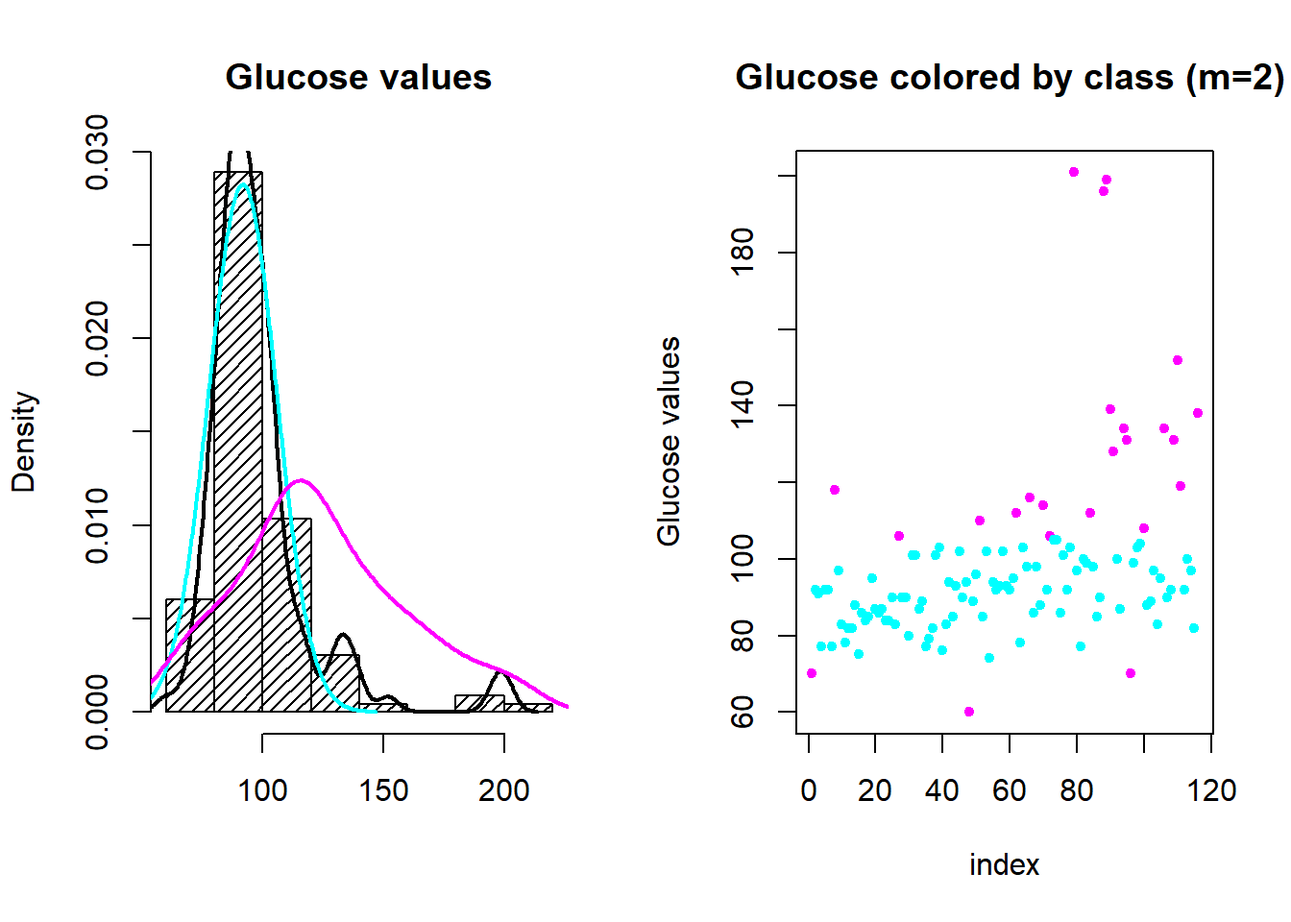
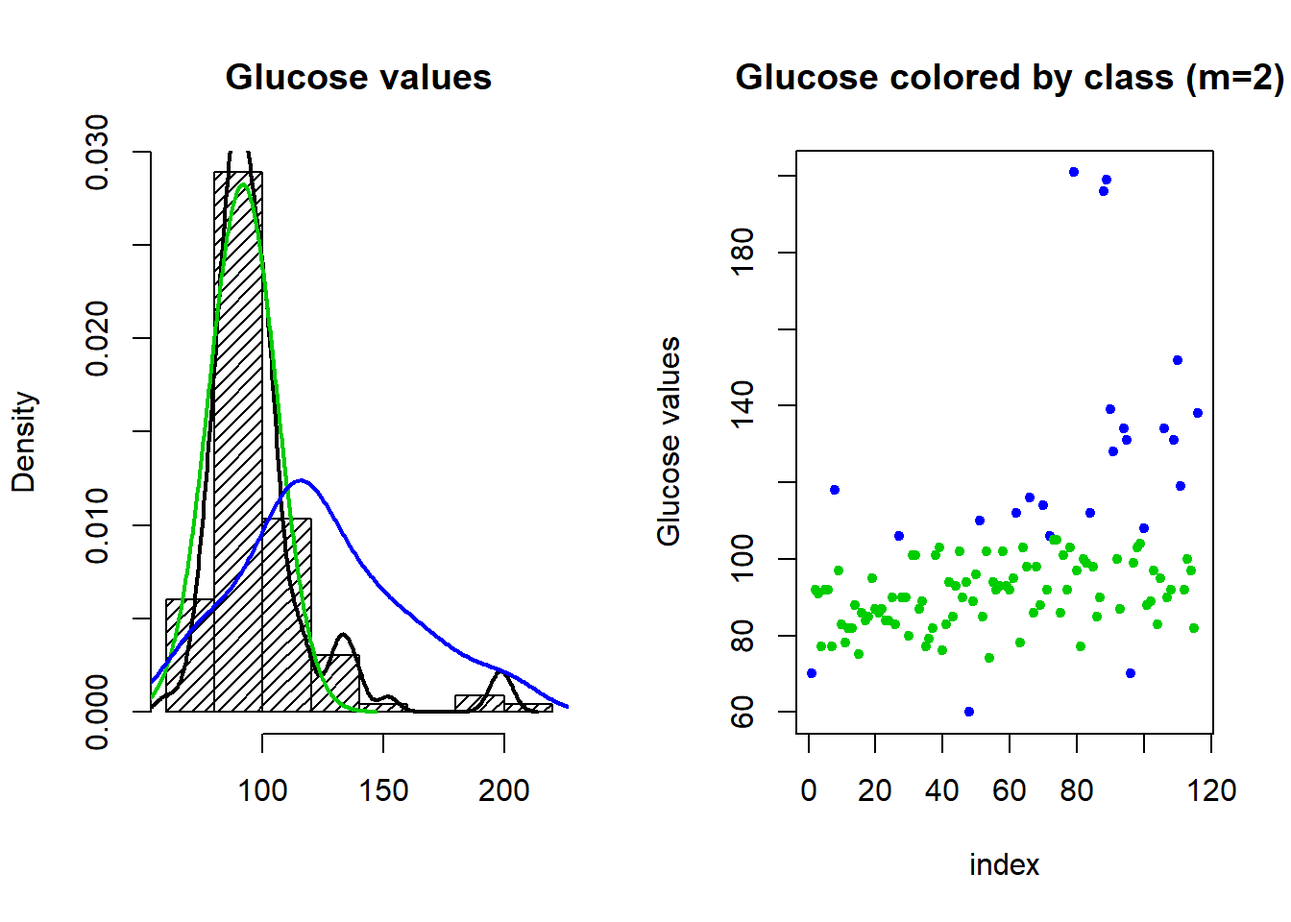
changed colors in 2031-assign1.Rmd

diff --git a/_book/assignment-glucose.html b/_book/assignment-glucose.html
@@ -132,7 +132,6 @@ code span.wa { color: #60a0b0; font-weight: bold; font-style: italic; } /* Warni
 
 <li class="divider"></li>
 <li><a href="index.html#section"></a></li>
-<li class="chapter" data-level="" data-path="preface.html"><a href="preface.html"><i class="fa fa-check"></i>Preface</a></li>
 <li class="chapter" data-level="1" data-path="intro.html"><a href="intro.html"><i class="fa fa-check"></i><b>1</b> Introduction</a></li>
 <li class="chapter" data-level="2" data-path="compstat.html"><a href="compstat.html"><i class="fa fa-check"></i><b>2</b> COMPSTAT</a><ul>
 <li class="chapter" data-level="2.1" data-path="lesson-1.html"><a href="lesson-1.html"><i class="fa fa-check"></i><b>2.1</b> Lesson 1</a></li>
@@ -175,8 +174,8 @@ code span.wa { color: #60a0b0; font-weight: bold; font-style: italic; } /* Warni
 <li class="chapter" data-level="4.4" data-path="assignment-trees.html"><a href="assignment-trees.html"><i class="fa fa-check"></i><b>4.4</b> Assignment Trees</a><ul>
 <li class="chapter" data-level="4.4.1" data-path="assignment-trees.html"><a href="assignment-trees.html#load-data"><i class="fa fa-check"></i><b>4.4.1</b> load data</a></li>
 <li class="chapter" data-level="4.4.2" data-path="assignment-trees.html"><a href="assignment-trees.html#classification-tree"><i class="fa fa-check"></i><b>4.4.2</b> Classification tree</a></li>
-<li class="chapter" data-level="4.4.3" data-path="assignment-trees.html"><a href="assignment-trees.html#random-forest-with-repeated-310-fold-cv"><i class="fa fa-check"></i><b>4.4.3</b> Random forest with repeated 3*10-fold CV</a></li>
-<li class="chapter" data-level="4.4.4" data-path="assignment-trees.html"><a href="assignment-trees.html#improve-random-forest-1"><i class="fa fa-check"></i><b>4.4.4</b> Improve Random Forest</a></li>
+<li><a href="assignment-trees.html#random-forest-with-repeated-310-fold-cv-improve-random-forest"><span class="toc-section-number">4.4.3</span> Random forest with repeated 3*10-fold CV
+### Improve Random Forest</a></li>
 </ul></li>
 <li class="chapter" data-level="4.5" data-path="assignment-trees-up-sampling.html"><a href="assignment-trees-up-sampling.html"><i class="fa fa-check"></i><b>4.5</b> Assignment Trees - Up Sampling</a><ul>
 <li class="chapter" data-level="4.5.1" data-path="assignment-trees-up-sampling.html"><a href="assignment-trees-up-sampling.html#load-data-1"><i class="fa fa-check"></i><b>4.5.1</b> load data</a></li>
@@ -220,84 +219,84 @@ code span.wa { color: #60a0b0; font-weight: bold; font-style: italic; } /* Warni
 searching for 2 or more latent classes.</p>
 <div id="defining-a-function-for-expectation-maximization-algorithm" class="section level3">
 <h3><span class="header-section-number">2.6.1</span> Defining a function for Expectation-Maximization algorithm</h3>
-<div class="sourceCode" id="cb98"><pre class="sourceCode r"><code class="sourceCode r"><a class="sourceLine" id="cb98-1" title="1"><span class="co"># function for E-M algorithm</span></a>
-<a class="sourceLine" id="cb98-2" title="2">emf&lt;-<span class="cf">function</span>(<span class="dt">xx =</span> vv, <span class="co"># a vector with the data</span></a>
-<a class="sourceLine" id="cb98-3" title="3">              <span class="dt">m =</span> <span class="dv">2</span>, <span class="co"># number of clustres</span></a>
-<a class="sourceLine" id="cb98-4" title="4">              <span class="dt">method =</span> <span class="st">&quot;crisp&quot;</span>, <span class="co"># method used for parameters estimation in each class; options: &quot;crisp&quot; or &quot;soft&quot;</span></a>
-<a class="sourceLine" id="cb98-5" title="5">              <span class="dt">itera =</span> <span class="dv">10</span>, <span class="co"># number of iterations</span></a>
-<a class="sourceLine" id="cb98-6" title="6">              <span class="dt">eps =</span> <span class="fl">0.01</span>, <span class="co"># the accepted error to converge (e)</span></a>
-<a class="sourceLine" id="cb98-7" title="7">              <span class="dt">params =</span> <span class="st">&quot;random&quot;</span>, <span class="co"># initial parameters, if &quot;random&quot; &#39;m&#39; values from &#39;xx&#39; are randomly select, or we can input a vector with &#39;m&#39; values</span></a>
-<a class="sourceLine" id="cb98-8" title="8">              <span class="dt">main=</span><span class="st">&quot;Glucose level&quot;</span>, <span class="co"># histogram title</span></a>
-<a class="sourceLine" id="cb98-9" title="9">              <span class="dt">seed =</span> <span class="dv">0</span> <span class="co"># value for set.seed()</span></a>
-<a class="sourceLine" id="cb98-10" title="10">              ){</a>
-<a class="sourceLine" id="cb98-11" title="11">  medias=<span class="ot">NA</span></a>
-<a class="sourceLine" id="cb98-12" title="12">  desvpadrao=<span class="ot">NA</span></a>
-<a class="sourceLine" id="cb98-13" title="13">  <span class="cf">if</span> (params <span class="op">==</span><span class="st"> &quot;random&quot;</span>) {</a>
-<a class="sourceLine" id="cb98-14" title="14">  <span class="kw">set.seed</span>(seed)</a>
-<a class="sourceLine" id="cb98-15" title="15">  param.mean&lt;-<span class="kw">sample</span>(xx,m)</a>
-<a class="sourceLine" id="cb98-16" title="16">  param.sd&lt;-<span class="kw">rep</span>(<span class="kw">sd</span>(xx)<span class="op">/</span>m,m)</a>
-<a class="sourceLine" id="cb98-17" title="17">  } <span class="cf">else</span> {</a>
-<a class="sourceLine" id="cb98-18" title="18">    param.mean&lt;-params</a>
-<a class="sourceLine" id="cb98-19" title="19">    param.sd&lt;-<span class="kw">rep</span>(<span class="kw">sd</span>(xx)<span class="op">/</span>m,m)</a>
-<a class="sourceLine" id="cb98-20" title="20">  }</a>
-<a class="sourceLine" id="cb98-21" title="21">  </a>
-<a class="sourceLine" id="cb98-22" title="22">  <span class="cf">for</span> (k <span class="cf">in</span> <span class="dv">1</span><span class="op">:</span>itera){</a>
-<a class="sourceLine" id="cb98-23" title="23">    densities&lt;-<span class="kw">sapply</span>(<span class="dv">1</span><span class="op">:</span>m, </a>
-<a class="sourceLine" id="cb98-24" title="24">                      <span class="cf">function</span>(i){<span class="kw">dnorm</span>(xx,</a>
-<a class="sourceLine" id="cb98-25" title="25">                                        <span class="dt">mean=</span>param.mean[i],</a>
-<a class="sourceLine" id="cb98-26" title="26">                                        <span class="dt">sd=</span>param.sd[i])})</a>
-<a class="sourceLine" id="cb98-27" title="27">    relevance&lt;-<span class="kw">t</span>(<span class="kw">apply</span>(densities,<span class="dv">1</span>,<span class="cf">function</span>(l){l<span class="op">/</span><span class="kw">sum</span>(l)}))</a>
-<a class="sourceLine" id="cb98-28" title="28">    </a>
-<a class="sourceLine" id="cb98-29" title="29">    attrib&lt;-<span class="kw">t</span>(<span class="kw">apply</span>(relevance,<span class="dv">1</span>,</a>
-<a class="sourceLine" id="cb98-30" title="30">                    <span class="cf">function</span>(l){<span class="kw">replace</span>(<span class="kw">rep</span>(<span class="dv">0</span>,m),<span class="kw">which.max</span>(l)[<span class="dv">1</span>],<span class="dv">1</span>)}))</a>
-<a class="sourceLine" id="cb98-31" title="31">    </a>
-<a class="sourceLine" id="cb98-32" title="32">    <span class="co"># Re-estimates the parameters of the probability distribution of each class</span></a>
-<a class="sourceLine" id="cb98-33" title="33">    <span class="cf">if</span> (method <span class="op">==</span><span class="st"> &quot;crisp&quot;</span>) {</a>
-<a class="sourceLine" id="cb98-34" title="34">      <span class="co">## M-step (alternative 1: crisp)</span></a>
-<a class="sourceLine" id="cb98-35" title="35">      param.mean.new&lt;-<span class="kw">sapply</span>(<span class="dv">1</span><span class="op">:</span>m,</a>
-<a class="sourceLine" id="cb98-36" title="36">                             <span class="cf">function</span>(j){<span class="kw">mean</span>(xx[attrib[,j]<span class="op">==</span><span class="dv">1</span>])})</a>
-<a class="sourceLine" id="cb98-37" title="37">      param.sd.new&lt;-<span class="kw">sapply</span>(<span class="dv">1</span><span class="op">:</span>m,</a>
-<a class="sourceLine" id="cb98-38" title="38">                           <span class="cf">function</span>(j){<span class="kw">sqrt</span>(<span class="kw">sum</span>(relevance[,j]<span class="op">*</span>(xx<span class="op">-</span>param.mean[j])<span class="op">^</span><span class="dv">2</span>)<span class="op">/</span><span class="kw">sum</span>(relevance[,j]))})</a>
-<a class="sourceLine" id="cb98-39" title="39">    } <span class="cf">else</span> {</a>
-<a class="sourceLine" id="cb98-40" title="40">      <span class="co">## M-step (alternative 2: soft)</span></a>
-<a class="sourceLine" id="cb98-41" title="41">      param.mean.new&lt;-<span class="kw">sapply</span>(<span class="dv">1</span><span class="op">:</span>m,</a>
-<a class="sourceLine" id="cb98-42" title="42">                             <span class="cf">function</span>(j){<span class="kw">sum</span>(xx<span class="op">*</span>relevance[,j])<span class="op">/</span><span class="kw">sum</span>(relevance[,j])})</a>
-<a class="sourceLine" id="cb98-43" title="43">      param.sd.new&lt;-<span class="kw">sapply</span>(<span class="dv">1</span><span class="op">:</span>m,</a>
-<a class="sourceLine" id="cb98-44" title="44">                           <span class="cf">function</span>(j){<span class="kw">sqrt</span>(<span class="kw">sum</span>(relevance[,j]<span class="op">*</span>(xx<span class="op">-</span>param.mean[j])<span class="op">^</span><span class="dv">2</span>)<span class="op">/</span><span class="kw">sum</span>(relevance[,j]))})</a>
-<a class="sourceLine" id="cb98-45" title="45">      </a>
-<a class="sourceLine" id="cb98-46" title="46">    }</a>
-<a class="sourceLine" id="cb98-47" title="47">    </a>
-<a class="sourceLine" id="cb98-48" title="48">    <span class="co"># convergence the maximum number of iterations (k).</span></a>
-<a class="sourceLine" id="cb98-49" title="49">    <span class="kw">cat</span>(<span class="st">&quot;iteration&quot;</span>, k, <span class="st">&quot;evolution:&quot;</span>, </a>
-<a class="sourceLine" id="cb98-50" title="50">        dif&lt;-<span class="kw">sum</span>(<span class="kw">abs</span>(param.mean.new <span class="op">-</span><span class="st"> </span>param.mean)), <span class="st">&quot;</span><span class="ch">\n</span><span class="st">&quot;</span>)</a>
-<a class="sourceLine" id="cb98-51" title="51">    <span class="cf">if</span>(dif <span class="op">&lt;</span><span class="st"> </span>eps) <span class="cf">break</span> <span class="co"># the accepted error to converge (e)</span></a>
-<a class="sourceLine" id="cb98-52" title="52">    param.mean&lt;-param.mean.new</a>
-<a class="sourceLine" id="cb98-53" title="53">    param.sd&lt;-param.sd.new</a>
-<a class="sourceLine" id="cb98-54" title="54">  }</a>
-<a class="sourceLine" id="cb98-55" title="55">  </a>
-<a class="sourceLine" id="cb98-56" title="56">  <span class="co">## ploting the histogram and density curve for the vector of data</span></a>
-<a class="sourceLine" id="cb98-57" title="57">  <span class="kw">hist</span>(xx, <span class="dt">density =</span> <span class="dv">20</span>,</a>
-<a class="sourceLine" id="cb98-58" title="58">       <span class="dt">main=</span>main,</a>
-<a class="sourceLine" id="cb98-59" title="59">       <span class="dt">xlab=</span><span class="st">&quot;&quot;</span>, <span class="dt">freq=</span>F)</a>
-<a class="sourceLine" id="cb98-60" title="60">  <span class="kw">lines</span>(<span class="kw">density</span>(xx),</a>
-<a class="sourceLine" id="cb98-61" title="61">        <span class="dt">lwd=</span><span class="dv">2</span>,<span class="dt">col=</span><span class="st">&quot;black&quot;</span>)</a>
-<a class="sourceLine" id="cb98-62" title="62">  </a>
-<a class="sourceLine" id="cb98-63" title="63">  <span class="co">## save means, std deviations and classes&#39; attributes on a list</span></a>
-<a class="sourceLine" id="cb98-64" title="64">  result&lt;-<span class="kw">list</span>(<span class="dt">medias =</span> param.mean,</a>
-<a class="sourceLine" id="cb98-65" title="65">               <span class="dt">desvpadrao =</span> param.sd,</a>
-<a class="sourceLine" id="cb98-66" title="66">               <span class="dt">classe =</span> <span class="kw">as.data.frame</span>(attrib))</a>
-<a class="sourceLine" id="cb98-67" title="67"></a>
-<a class="sourceLine" id="cb98-68" title="68">}</a></code></pre></div>
+<div class="sourceCode" id="cb3"><pre class="sourceCode r"><code class="sourceCode r"><a class="sourceLine" id="cb3-1" title="1"><span class="co"># function for E-M algorithm</span></a>
+<a class="sourceLine" id="cb3-2" title="2">emf&lt;-<span class="cf">function</span>(<span class="dt">xx =</span> vv, <span class="co"># a vector with the data</span></a>
+<a class="sourceLine" id="cb3-3" title="3">              <span class="dt">m =</span> <span class="dv">2</span>, <span class="co"># number of clustres</span></a>
+<a class="sourceLine" id="cb3-4" title="4">              <span class="dt">method =</span> <span class="st">&quot;crisp&quot;</span>, <span class="co"># method used for parameters estimation in each class; options: &quot;crisp&quot; or &quot;soft&quot;</span></a>
+<a class="sourceLine" id="cb3-5" title="5">              <span class="dt">itera =</span> <span class="dv">10</span>, <span class="co"># number of iterations</span></a>
+<a class="sourceLine" id="cb3-6" title="6">              <span class="dt">eps =</span> <span class="fl">0.01</span>, <span class="co"># the accepted error to converge (e)</span></a>
+<a class="sourceLine" id="cb3-7" title="7">              <span class="dt">params =</span> <span class="st">&quot;random&quot;</span>, <span class="co"># initial parameters, if &quot;random&quot; &#39;m&#39; values from &#39;xx&#39; are randomly select, or we can input a vector with &#39;m&#39; values</span></a>
+<a class="sourceLine" id="cb3-8" title="8">              <span class="dt">main=</span><span class="st">&quot;Glucose level&quot;</span>, <span class="co"># histogram title</span></a>
+<a class="sourceLine" id="cb3-9" title="9">              <span class="dt">seed =</span> <span class="dv">0</span> <span class="co"># value for set.seed()</span></a>
+<a class="sourceLine" id="cb3-10" title="10">              ){</a>
+<a class="sourceLine" id="cb3-11" title="11">  medias=<span class="ot">NA</span></a>
+<a class="sourceLine" id="cb3-12" title="12">  desvpadrao=<span class="ot">NA</span></a>
+<a class="sourceLine" id="cb3-13" title="13">  <span class="cf">if</span> (params <span class="op">==</span><span class="st"> &quot;random&quot;</span>) {</a>
+<a class="sourceLine" id="cb3-14" title="14">  <span class="kw">set.seed</span>(seed)</a>
+<a class="sourceLine" id="cb3-15" title="15">  param.mean&lt;-<span class="kw">sample</span>(xx,m)</a>
+<a class="sourceLine" id="cb3-16" title="16">  param.sd&lt;-<span class="kw">rep</span>(<span class="kw">sd</span>(xx)<span class="op">/</span>m,m)</a>
+<a class="sourceLine" id="cb3-17" title="17">  } <span class="cf">else</span> {</a>
+<a class="sourceLine" id="cb3-18" title="18">    param.mean&lt;-params</a>
+<a class="sourceLine" id="cb3-19" title="19">    param.sd&lt;-<span class="kw">rep</span>(<span class="kw">sd</span>(xx)<span class="op">/</span>m,m)</a>
+<a class="sourceLine" id="cb3-20" title="20">  }</a>
+<a class="sourceLine" id="cb3-21" title="21">  </a>
+<a class="sourceLine" id="cb3-22" title="22">  <span class="cf">for</span> (k <span class="cf">in</span> <span class="dv">1</span><span class="op">:</span>itera){</a>
+<a class="sourceLine" id="cb3-23" title="23">    densities&lt;-<span class="kw">sapply</span>(<span class="dv">1</span><span class="op">:</span>m, </a>
+<a class="sourceLine" id="cb3-24" title="24">                      <span class="cf">function</span>(i){<span class="kw">dnorm</span>(xx,</a>
+<a class="sourceLine" id="cb3-25" title="25">                                        <span class="dt">mean=</span>param.mean[i],</a>
+<a class="sourceLine" id="cb3-26" title="26">                                        <span class="dt">sd=</span>param.sd[i])})</a>
+<a class="sourceLine" id="cb3-27" title="27">    relevance&lt;-<span class="kw">t</span>(<span class="kw">apply</span>(densities,<span class="dv">1</span>,<span class="cf">function</span>(l){l<span class="op">/</span><span class="kw">sum</span>(l)}))</a>
+<a class="sourceLine" id="cb3-28" title="28">    </a>
+<a class="sourceLine" id="cb3-29" title="29">    attrib&lt;-<span class="kw">t</span>(<span class="kw">apply</span>(relevance,<span class="dv">1</span>,</a>
+<a class="sourceLine" id="cb3-30" title="30">                    <span class="cf">function</span>(l){<span class="kw">replace</span>(<span class="kw">rep</span>(<span class="dv">0</span>,m),<span class="kw">which.max</span>(l)[<span class="dv">1</span>],<span class="dv">1</span>)}))</a>
+<a class="sourceLine" id="cb3-31" title="31">    </a>
+<a class="sourceLine" id="cb3-32" title="32">    <span class="co"># Re-estimates the parameters of the probability distribution of each class</span></a>
+<a class="sourceLine" id="cb3-33" title="33">    <span class="cf">if</span> (method <span class="op">==</span><span class="st"> &quot;crisp&quot;</span>) {</a>
+<a class="sourceLine" id="cb3-34" title="34">      <span class="co">## M-step (alternative 1: crisp)</span></a>
+<a class="sourceLine" id="cb3-35" title="35">      param.mean.new&lt;-<span class="kw">sapply</span>(<span class="dv">1</span><span class="op">:</span>m,</a>
+<a class="sourceLine" id="cb3-36" title="36">                             <span class="cf">function</span>(j){<span class="kw">mean</span>(xx[attrib[,j]<span class="op">==</span><span class="dv">1</span>])})</a>
+<a class="sourceLine" id="cb3-37" title="37">      param.sd.new&lt;-<span class="kw">sapply</span>(<span class="dv">1</span><span class="op">:</span>m,</a>
+<a class="sourceLine" id="cb3-38" title="38">                           <span class="cf">function</span>(j){<span class="kw">sqrt</span>(<span class="kw">sum</span>(relevance[,j]<span class="op">*</span>(xx<span class="op">-</span>param.mean[j])<span class="op">^</span><span class="dv">2</span>)<span class="op">/</span><span class="kw">sum</span>(relevance[,j]))})</a>
+<a class="sourceLine" id="cb3-39" title="39">    } <span class="cf">else</span> {</a>
+<a class="sourceLine" id="cb3-40" title="40">      <span class="co">## M-step (alternative 2: soft)</span></a>
+<a class="sourceLine" id="cb3-41" title="41">      param.mean.new&lt;-<span class="kw">sapply</span>(<span class="dv">1</span><span class="op">:</span>m,</a>
+<a class="sourceLine" id="cb3-42" title="42">                             <span class="cf">function</span>(j){<span class="kw">sum</span>(xx<span class="op">*</span>relevance[,j])<span class="op">/</span><span class="kw">sum</span>(relevance[,j])})</a>
+<a class="sourceLine" id="cb3-43" title="43">      param.sd.new&lt;-<span class="kw">sapply</span>(<span class="dv">1</span><span class="op">:</span>m,</a>
+<a class="sourceLine" id="cb3-44" title="44">                           <span class="cf">function</span>(j){<span class="kw">sqrt</span>(<span class="kw">sum</span>(relevance[,j]<span class="op">*</span>(xx<span class="op">-</span>param.mean[j])<span class="op">^</span><span class="dv">2</span>)<span class="op">/</span><span class="kw">sum</span>(relevance[,j]))})</a>
+<a class="sourceLine" id="cb3-45" title="45">      </a>
+<a class="sourceLine" id="cb3-46" title="46">    }</a>
+<a class="sourceLine" id="cb3-47" title="47">    </a>
+<a class="sourceLine" id="cb3-48" title="48">    <span class="co"># convergence the maximum number of iterations (k).</span></a>
+<a class="sourceLine" id="cb3-49" title="49">    <span class="kw">cat</span>(<span class="st">&quot;iteration&quot;</span>, k, <span class="st">&quot;evolution:&quot;</span>, </a>
+<a class="sourceLine" id="cb3-50" title="50">        dif&lt;-<span class="kw">sum</span>(<span class="kw">abs</span>(param.mean.new <span class="op">-</span><span class="st"> </span>param.mean)), <span class="st">&quot;</span><span class="ch">\n</span><span class="st">&quot;</span>)</a>
+<a class="sourceLine" id="cb3-51" title="51">    <span class="cf">if</span>(dif <span class="op">&lt;</span><span class="st"> </span>eps) <span class="cf">break</span> <span class="co"># the accepted error to converge (e)</span></a>
+<a class="sourceLine" id="cb3-52" title="52">    param.mean&lt;-param.mean.new</a>
+<a class="sourceLine" id="cb3-53" title="53">    param.sd&lt;-param.sd.new</a>
+<a class="sourceLine" id="cb3-54" title="54">  }</a>
+<a class="sourceLine" id="cb3-55" title="55">  </a>
+<a class="sourceLine" id="cb3-56" title="56">  <span class="co">## ploting the histogram and density curve for the vector of data</span></a>
+<a class="sourceLine" id="cb3-57" title="57">  <span class="kw">hist</span>(xx, <span class="dt">density =</span> <span class="dv">20</span>,</a>
+<a class="sourceLine" id="cb3-58" title="58">       <span class="dt">main=</span>main,</a>
+<a class="sourceLine" id="cb3-59" title="59">       <span class="dt">xlab=</span><span class="st">&quot;&quot;</span>, <span class="dt">freq=</span>F)</a>
+<a class="sourceLine" id="cb3-60" title="60">  <span class="kw">lines</span>(<span class="kw">density</span>(xx),</a>
+<a class="sourceLine" id="cb3-61" title="61">        <span class="dt">lwd=</span><span class="dv">2</span>,<span class="dt">col=</span><span class="st">&quot;black&quot;</span>)</a>
+<a class="sourceLine" id="cb3-62" title="62">  </a>
+<a class="sourceLine" id="cb3-63" title="63">  <span class="co">## save means, std deviations and classes&#39; attributes on a list</span></a>
+<a class="sourceLine" id="cb3-64" title="64">  result&lt;-<span class="kw">list</span>(<span class="dt">medias =</span> param.mean,</a>
+<a class="sourceLine" id="cb3-65" title="65">               <span class="dt">desvpadrao =</span> param.sd,</a>
+<a class="sourceLine" id="cb3-66" title="66">               <span class="dt">classe =</span> <span class="kw">as.data.frame</span>(attrib))</a>
+<a class="sourceLine" id="cb3-67" title="67"></a>
+<a class="sourceLine" id="cb3-68" title="68">}</a></code></pre></div>
 </div>
 <div id="clusters-density-curves" class="section level3">
 <h3><span class="header-section-number">2.6.2</span> 2 clusters density curves</h3>
-<div class="sourceCode" id="cb99"><pre class="sourceCode r"><code class="sourceCode r"><a class="sourceLine" id="cb99-1" title="1"><span class="co"># reading the data</span></a>
-<a class="sourceLine" id="cb99-2" title="2">breast&lt;-<span class="kw">read.csv</span>(<span class="st">&quot;2.UploadedData/dataR2.csv&quot;</span>)</a>
-<a class="sourceLine" id="cb99-3" title="3"></a>
-<a class="sourceLine" id="cb99-4" title="4"><span class="kw">par</span>(<span class="dt">mfrow=</span><span class="kw">c</span>(<span class="dv">1</span>,<span class="dv">2</span>))</a>
-<a class="sourceLine" id="cb99-5" title="5"></a>
-<a class="sourceLine" id="cb99-6" title="6"><span class="co"># run the EM function for Glucose with 2 clusters and max 20 iterations</span></a>
-<a class="sourceLine" id="cb99-7" title="7">res&lt;-<span class="kw">emf</span>(<span class="dt">xx =</span> breast<span class="op">$</span>Glucose, <span class="dt">itera =</span> <span class="dv">20</span>, <span class="dt">m=</span><span class="dv">2</span>, <span class="dt">method =</span> <span class="st">&quot;crisp&quot;</span>, <span class="dt">main =</span> <span class="st">&quot;Glucose values&quot;</span>, <span class="dt">seed =</span> <span class="dv">0</span>)</a></code></pre></div>
+<div class="sourceCode" id="cb4"><pre class="sourceCode r"><code class="sourceCode r"><a class="sourceLine" id="cb4-1" title="1"><span class="co"># reading the data</span></a>
+<a class="sourceLine" id="cb4-2" title="2">breast&lt;-<span class="kw">read.csv</span>(<span class="st">&quot;2.UploadedData/dataR2.csv&quot;</span>)</a>
+<a class="sourceLine" id="cb4-3" title="3"></a>
+<a class="sourceLine" id="cb4-4" title="4"><span class="kw">par</span>(<span class="dt">mfrow=</span><span class="kw">c</span>(<span class="dv">1</span>,<span class="dv">2</span>))</a>
+<a class="sourceLine" id="cb4-5" title="5"></a>
+<a class="sourceLine" id="cb4-6" title="6"><span class="co"># run the EM function for Glucose with 2 clusters and max 20 iterations</span></a>
+<a class="sourceLine" id="cb4-7" title="7">res&lt;-<span class="kw">emf</span>(<span class="dt">xx =</span> breast<span class="op">$</span>Glucose, <span class="dt">itera =</span> <span class="dv">20</span>, <span class="dt">m=</span><span class="dv">2</span>, <span class="dt">method =</span> <span class="st">&quot;crisp&quot;</span>, <span class="dt">main =</span> <span class="st">&quot;Glucose values&quot;</span>, <span class="dt">seed =</span> <span class="dv">0</span>)</a></code></pre></div>
 <pre><code>## iteration 1 evolution: 17.79331 
 ## iteration 2 evolution: 9.991458 
 ## iteration 3 evolution: 9.361819 
@@ -305,48 +304,48 @@ searching for 2 or more latent classes.</p>
 ## iteration 5 evolution: 2.419946 
 ## iteration 6 evolution: 5.454559 
 ## iteration 7 evolution: 0</code></pre>
-<div class="sourceCode" id="cb101"><pre class="sourceCode r"><code class="sourceCode r"><a class="sourceLine" id="cb101-1" title="1"><span class="co"># add density curves for each class</span></a>
-<a class="sourceLine" id="cb101-2" title="2"><span class="kw">lines</span>(<span class="kw">density</span>(<span class="kw">rnorm</span>(<span class="dv">100</span>, res<span class="op">$</span>medias[<span class="dv">1</span>], res<span class="op">$</span>desvpadrao[<span class="dv">1</span>]), <span class="dt">bw =</span> <span class="dv">12</span>),<span class="dt">lwd=</span><span class="dv">2</span>,<span class="dt">col=</span><span class="dv">5</span>)</a>
-<a class="sourceLine" id="cb101-3" title="3"><span class="kw">lines</span>(<span class="kw">density</span>(<span class="kw">rnorm</span>(<span class="dv">100</span>, res<span class="op">$</span>medias[<span class="dv">2</span>], res<span class="op">$</span>desvpadrao[<span class="dv">2</span>]), <span class="dt">bw =</span> <span class="dv">12</span>),<span class="dt">lwd=</span><span class="dv">2</span>,<span class="dt">col=</span><span class="dv">6</span>)</a>
-<a class="sourceLine" id="cb101-4" title="4"></a>
-<a class="sourceLine" id="cb101-5" title="5"><span class="co">## column with 2 classes</span></a>
-<a class="sourceLine" id="cb101-6" title="6"><span class="kw">attach</span>(res<span class="op">$</span>classe)</a>
-<a class="sourceLine" id="cb101-7" title="7">classe2&lt;-<span class="kw">ifelse</span>(V1 <span class="op">==</span><span class="st"> </span><span class="dv">1</span>, <span class="dv">5</span> , <span class="dv">6</span>) <span class="co"># create &#39;m&#39; classes</span></a>
-<a class="sourceLine" id="cb101-8" title="8"><span class="kw">detach</span>()</a>
-<a class="sourceLine" id="cb101-9" title="9"></a>
-<a class="sourceLine" id="cb101-10" title="10"><span class="co"># Plot the values in which each point has a color corresponding to the class to which it belongs</span></a>
-<a class="sourceLine" id="cb101-11" title="11"><span class="kw">plot</span>(<span class="dv">1</span><span class="op">:</span><span class="kw">length</span>(breast<span class="op">$</span>Glucose), breast<span class="op">$</span>Glucose, <span class="dt">col=</span>classe2, <span class="dt">pch=</span><span class="dv">20</span>,</a>
-<a class="sourceLine" id="cb101-12" title="12">     <span class="dt">xlab=</span><span class="st">&quot;index&quot;</span>, <span class="dt">ylab=</span><span class="st">&quot;Glucose values&quot;</span>,</a>
-<a class="sourceLine" id="cb101-13" title="13">     <span class="dt">main =</span> <span class="st">&quot; Glucose colored by class (m=2)&quot;</span>)</a></code></pre></div>
-<p><img src="heads2sem_files/figure-html/unnamed-chunk-60-1.png" width="672" /></p>
+<div class="sourceCode" id="cb6"><pre class="sourceCode r"><code class="sourceCode r"><a class="sourceLine" id="cb6-1" title="1"><span class="co"># add density curves for each class</span></a>
+<a class="sourceLine" id="cb6-2" title="2"><span class="kw">lines</span>(<span class="kw">density</span>(<span class="kw">rnorm</span>(<span class="dv">100</span>, res<span class="op">$</span>medias[<span class="dv">1</span>], res<span class="op">$</span>desvpadrao[<span class="dv">1</span>]), <span class="dt">bw =</span> <span class="dv">12</span>),<span class="dt">lwd=</span><span class="dv">2</span>,<span class="dt">col=</span><span class="dv">3</span>)</a>
+<a class="sourceLine" id="cb6-3" title="3"><span class="kw">lines</span>(<span class="kw">density</span>(<span class="kw">rnorm</span>(<span class="dv">100</span>, res<span class="op">$</span>medias[<span class="dv">2</span>], res<span class="op">$</span>desvpadrao[<span class="dv">2</span>]), <span class="dt">bw =</span> <span class="dv">12</span>),<span class="dt">lwd=</span><span class="dv">2</span>,<span class="dt">col=</span><span class="dv">4</span>)</a>
+<a class="sourceLine" id="cb6-4" title="4"></a>
+<a class="sourceLine" id="cb6-5" title="5"><span class="co">## column with 2 classes</span></a>
+<a class="sourceLine" id="cb6-6" title="6"><span class="kw">attach</span>(res<span class="op">$</span>classe)</a>
+<a class="sourceLine" id="cb6-7" title="7">classe2&lt;-<span class="kw">ifelse</span>(V1 <span class="op">==</span><span class="st"> </span><span class="dv">1</span>, <span class="dv">3</span> , <span class="dv">4</span>) <span class="co"># create &#39;m&#39; classes</span></a>
+<a class="sourceLine" id="cb6-8" title="8"><span class="kw">detach</span>()</a>
+<a class="sourceLine" id="cb6-9" title="9"></a>
+<a class="sourceLine" id="cb6-10" title="10"><span class="co"># Plot the values in which each point has a color corresponding to the class to which it belongs</span></a>
+<a class="sourceLine" id="cb6-11" title="11"><span class="kw">plot</span>(<span class="dv">1</span><span class="op">:</span><span class="kw">length</span>(breast<span class="op">$</span>Glucose), breast<span class="op">$</span>Glucose, <span class="dt">col=</span>classe2, <span class="dt">pch=</span><span class="dv">20</span>,</a>
+<a class="sourceLine" id="cb6-12" title="12">     <span class="dt">xlab=</span><span class="st">&quot;index&quot;</span>, <span class="dt">ylab=</span><span class="st">&quot;Glucose values&quot;</span>,</a>
+<a class="sourceLine" id="cb6-13" title="13">     <span class="dt">main =</span> <span class="st">&quot; Glucose colored by class (m=2)&quot;</span>)</a></code></pre></div>
+<p><img src="heads2sem_files/figure-html/unnamed-chunk-3-1.png" width="672" /></p>
 </div>
 <div id="clusters-density-curves-1" class="section level3">
 <h3><span class="header-section-number">2.6.3</span> 3 clusters density curves</h3>
-<div class="sourceCode" id="cb102"><pre class="sourceCode r"><code class="sourceCode r"><a class="sourceLine" id="cb102-1" title="1"><span class="kw">par</span>(<span class="dt">mfrow=</span><span class="kw">c</span>(<span class="dv">1</span>,<span class="dv">2</span>))</a>
-<a class="sourceLine" id="cb102-2" title="2"></a>
-<a class="sourceLine" id="cb102-3" title="3"><span class="co"># run the EM function for Glucose with 3 clusters and max 20 iterations</span></a>
-<a class="sourceLine" id="cb102-4" title="4">res&lt;-<span class="kw">emf</span>(<span class="dt">xx =</span> breast<span class="op">$</span>Glucose, <span class="dt">itera =</span> <span class="dv">20</span>, <span class="dt">m=</span><span class="dv">3</span>, <span class="dt">method =</span> <span class="st">&quot;crisp&quot;</span>, <span class="dt">main =</span> <span class="st">&quot;Glucose values&quot;</span>, <span class="dt">seed =</span> <span class="dv">0</span>)</a></code></pre></div>
+<div class="sourceCode" id="cb7"><pre class="sourceCode r"><code class="sourceCode r"><a class="sourceLine" id="cb7-1" title="1"><span class="kw">par</span>(<span class="dt">mfrow=</span><span class="kw">c</span>(<span class="dv">1</span>,<span class="dv">2</span>))</a>
+<a class="sourceLine" id="cb7-2" title="2"></a>
+<a class="sourceLine" id="cb7-3" title="3"><span class="co"># run the EM function for Glucose with 3 clusters and max 20 iterations</span></a>
+<a class="sourceLine" id="cb7-4" title="4">res&lt;-<span class="kw">emf</span>(<span class="dt">xx =</span> breast<span class="op">$</span>Glucose, <span class="dt">itera =</span> <span class="dv">20</span>, <span class="dt">m=</span><span class="dv">3</span>, <span class="dt">method =</span> <span class="st">&quot;crisp&quot;</span>, <span class="dt">main =</span> <span class="st">&quot;Glucose values&quot;</span>, <span class="dt">seed =</span> <span class="dv">0</span>)</a></code></pre></div>
 <pre><code>## iteration 1 evolution: 22.28802 
 ## iteration 2 evolution: 16.6689 
 ## iteration 3 evolution: 3.445327 
 ## iteration 4 evolution: 0.3056396 
 ## iteration 5 evolution: 0</code></pre>
-<div class="sourceCode" id="cb104"><pre class="sourceCode r"><code class="sourceCode r"><a class="sourceLine" id="cb104-1" title="1"><span class="co"># add density curves for each class</span></a>
-<a class="sourceLine" id="cb104-2" title="2"><span class="kw">lines</span>(<span class="kw">density</span>(<span class="kw">rnorm</span>(<span class="dv">100</span>, res<span class="op">$</span>medias[<span class="dv">1</span>], res<span class="op">$</span>desvpadrao[<span class="dv">1</span>]), <span class="dt">bw =</span> <span class="dv">12</span>),<span class="dt">lwd=</span><span class="dv">2</span>,<span class="dt">col=</span><span class="dv">5</span>)</a>
-<a class="sourceLine" id="cb104-3" title="3"><span class="kw">lines</span>(<span class="kw">density</span>(<span class="kw">rnorm</span>(<span class="dv">100</span>, res<span class="op">$</span>medias[<span class="dv">2</span>], res<span class="op">$</span>desvpadrao[<span class="dv">2</span>]), <span class="dt">bw =</span> <span class="dv">12</span>),<span class="dt">lwd=</span><span class="dv">2</span>,<span class="dt">col=</span><span class="dv">6</span>)</a>
-<a class="sourceLine" id="cb104-4" title="4"><span class="kw">lines</span>(<span class="kw">density</span>(<span class="kw">rnorm</span>(<span class="dv">100</span>, res<span class="op">$</span>medias[<span class="dv">3</span>], res<span class="op">$</span>desvpadrao[<span class="dv">3</span>]), <span class="dt">bw =</span> <span class="dv">12</span>),<span class="dt">lwd=</span><span class="dv">2</span>,<span class="dt">col=</span><span class="dv">7</span>)</a>
-<a class="sourceLine" id="cb104-5" title="5"></a>
-<a class="sourceLine" id="cb104-6" title="6"><span class="co">## column with 3 classes</span></a>
-<a class="sourceLine" id="cb104-7" title="7"><span class="kw">attach</span>(res<span class="op">$</span>classe)</a>
-<a class="sourceLine" id="cb104-8" title="8">classe3&lt;-<span class="kw">ifelse</span>(V1 <span class="op">==</span><span class="st"> </span><span class="dv">1</span>, <span class="dv">5</span>,</a>
-<a class="sourceLine" id="cb104-9" title="9">               <span class="kw">ifelse</span>(V2 <span class="op">==</span><span class="st"> </span><span class="dv">1</span>, <span class="dv">6</span>,</a>
-<a class="sourceLine" id="cb104-10" title="10">                      <span class="dv">7</span>)) <span class="co"># create &#39;m&#39; classes</span></a>
-<a class="sourceLine" id="cb104-11" title="11"><span class="kw">detach</span>()</a>
-<a class="sourceLine" id="cb104-12" title="12"></a>
-<a class="sourceLine" id="cb104-13" title="13"><span class="kw">plot</span>(<span class="dv">1</span><span class="op">:</span><span class="kw">length</span>(breast<span class="op">$</span>Glucose), breast<span class="op">$</span>Glucose, <span class="dt">col=</span>classe3, <span class="dt">pch=</span><span class="dv">20</span>,</a>
-<a class="sourceLine" id="cb104-14" title="14">     <span class="dt">xlab=</span><span class="st">&quot;index&quot;</span>, <span class="dt">ylab=</span><span class="st">&quot;Glucose values&quot;</span>,</a>
-<a class="sourceLine" id="cb104-15" title="15">     <span class="dt">main =</span> <span class="st">&quot; Glucose colored by class (m=3)&quot;</span>)</a></code></pre></div>
-<p><img src="heads2sem_files/figure-html/unnamed-chunk-61-1.png" width="672" /></p>
+<div class="sourceCode" id="cb9"><pre class="sourceCode r"><code class="sourceCode r"><a class="sourceLine" id="cb9-1" title="1"><span class="co"># add density curves for each class</span></a>
+<a class="sourceLine" id="cb9-2" title="2"><span class="kw">lines</span>(<span class="kw">density</span>(<span class="kw">rnorm</span>(<span class="dv">100</span>, res<span class="op">$</span>medias[<span class="dv">1</span>], res<span class="op">$</span>desvpadrao[<span class="dv">1</span>]), <span class="dt">bw =</span> <span class="dv">12</span>),<span class="dt">lwd=</span><span class="dv">2</span>,<span class="dt">col=</span><span class="dv">3</span>)</a>
+<a class="sourceLine" id="cb9-3" title="3"><span class="kw">lines</span>(<span class="kw">density</span>(<span class="kw">rnorm</span>(<span class="dv">100</span>, res<span class="op">$</span>medias[<span class="dv">2</span>], res<span class="op">$</span>desvpadrao[<span class="dv">2</span>]), <span class="dt">bw =</span> <span class="dv">12</span>),<span class="dt">lwd=</span><span class="dv">2</span>,<span class="dt">col=</span><span class="dv">4</span>)</a>
+<a class="sourceLine" id="cb9-4" title="4"><span class="kw">lines</span>(<span class="kw">density</span>(<span class="kw">rnorm</span>(<span class="dv">100</span>, res<span class="op">$</span>medias[<span class="dv">3</span>], res<span class="op">$</span>desvpadrao[<span class="dv">3</span>]), <span class="dt">bw =</span> <span class="dv">12</span>),<span class="dt">lwd=</span><span class="dv">2</span>,<span class="dt">col=</span><span class="dv">5</span>)</a>
+<a class="sourceLine" id="cb9-5" title="5"></a>
+<a class="sourceLine" id="cb9-6" title="6"><span class="co">## column with 3 classes</span></a>
+<a class="sourceLine" id="cb9-7" title="7"><span class="kw">attach</span>(res<span class="op">$</span>classe)</a>
+<a class="sourceLine" id="cb9-8" title="8">classe3&lt;-<span class="kw">ifelse</span>(V1 <span class="op">==</span><span class="st"> </span><span class="dv">1</span>, <span class="dv">3</span>,</a>
+<a class="sourceLine" id="cb9-9" title="9">               <span class="kw">ifelse</span>(V2 <span class="op">==</span><span class="st"> </span><span class="dv">1</span>, <span class="dv">4</span>,</a>
+<a class="sourceLine" id="cb9-10" title="10">                      <span class="dv">5</span>)) <span class="co"># create &#39;m&#39; classes</span></a>
+<a class="sourceLine" id="cb9-11" title="11"><span class="kw">detach</span>()</a>
+<a class="sourceLine" id="cb9-12" title="12"></a>
+<a class="sourceLine" id="cb9-13" title="13"><span class="kw">plot</span>(<span class="dv">1</span><span class="op">:</span><span class="kw">length</span>(breast<span class="op">$</span>Glucose), breast<span class="op">$</span>Glucose, <span class="dt">col=</span>classe3, <span class="dt">pch=</span><span class="dv">20</span>,</a>
+<a class="sourceLine" id="cb9-14" title="14">     <span class="dt">xlab=</span><span class="st">&quot;index&quot;</span>, <span class="dt">ylab=</span><span class="st">&quot;Glucose values&quot;</span>,</a>
+<a class="sourceLine" id="cb9-15" title="15">     <span class="dt">main =</span> <span class="st">&quot; Glucose colored by class (m=3)&quot;</span>)</a></code></pre></div>
+<p><img src="heads2sem_files/figure-html/unnamed-chunk-4-1.png" width="672" /></p>
 
 </div>
 </div>
